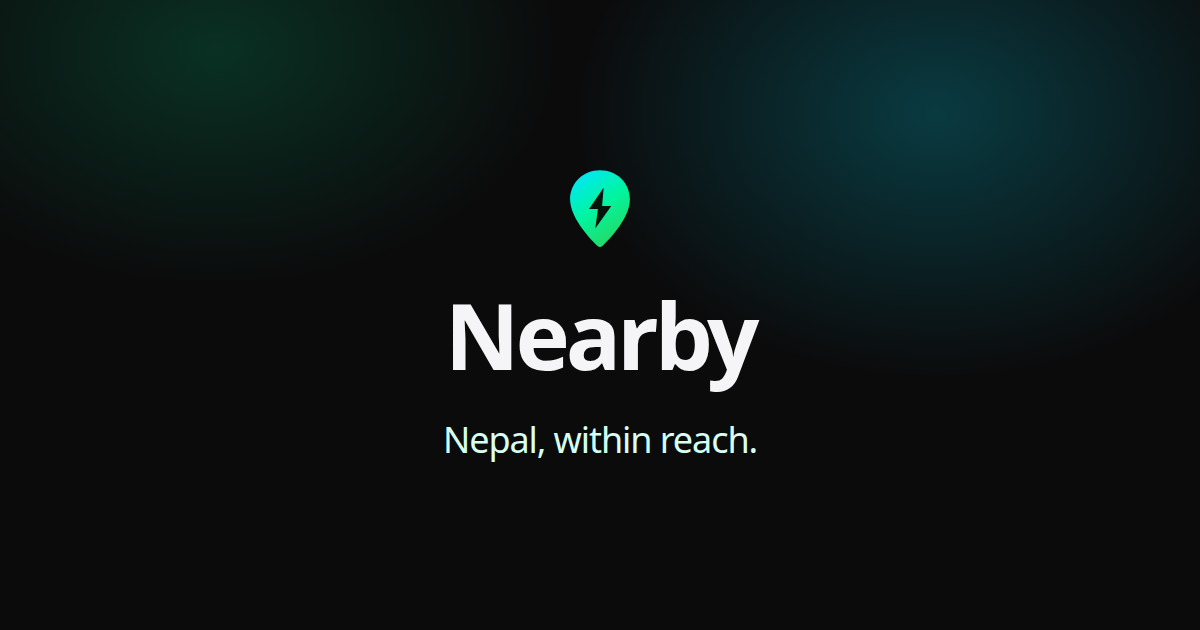
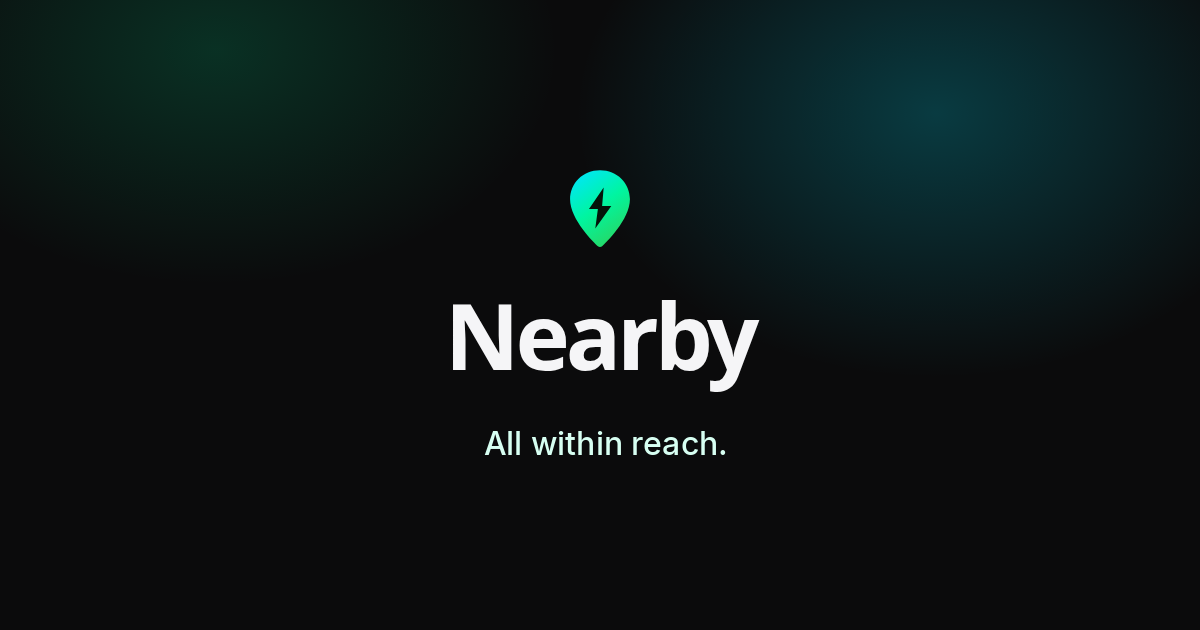
Drop the redundant Nepal from visible copy.
The header, titles, search, and charger scope now say All within reach. Nepal stays in About, visa and SIM notes, and search metadata.

Changed region(s): [[0.37, 0.6635, 0.6475, 0.7238]]

diff --git a/src/components/charge/ChargeExplorer.tsx b/src/components/charge/ChargeExplorer.tsx
@@ -498,7 +498,9 @@ export function ChargeExplorer() {
     origin.kind === "province"
       ? `${count} in ${origin.label}`
       : origin.kind === "country" || radiusKm == null
-        ? `${count} charger${count === 1 ? "" : "s"} in ${origin.kind === "country" ? "Nepal" : origin.label}`
+        ? origin.kind === "country"
+          ? `${count} charger${count === 1 ? "" : "s"}`
+          : `${count} charger${count === 1 ? "" : "s"} in ${origin.label}`
         : origin.kind === "geolocation"
           ? `${count} charger${count === 1 ? "" : "s"} within ${within}`
           : `${count} within ${within} of ${origin.label}`;
@@ -542,7 +544,7 @@ export function ChargeExplorer() {
           }}
         >
           <label className="sr-only" htmlFor="charger-search">
-            Search a place in Nepal
+            Search a place
           </label>
           <input
             id="charger-search"
@@ -587,7 +589,7 @@ export function ChargeExplorer() {
             aria-pressed={origin.kind === "country"}
             onClick={chooseNepal}
           >
-            Nepal {evIndex.length}
+            All {evIndex.length}
           </button>
           {provinceRecords.map((province) => {
             const on = origin.kind === "province" && origin.province === province.name;
@@ -650,7 +652,7 @@ export function ChargeExplorer() {
                 })
               : null}
             {suggestionHits.length === 0 ? (
-              <li className="suggest-label">No matching place in Nepal</li>
+              <li className="suggest-label">No matching place</li>
             ) : (
               suggestionHits.map((hit, index) => (
                 <li key={`${hit.kind}-${hit.label}-${hit.lat}`}>
@@ -676,7 +678,7 @@ export function ChargeExplorer() {
 
   return (
     <div className={cards ? "charge-cards-page" : "charge-stage"}>
-      <h1 className="sr-only">EV chargers in Nepal</h1>
+      <h1 className="sr-only">EV chargers</h1>
       {cards ? null : (
         <ChargeMap
           stations={mapStations}

diff --git a/src/app/page.tsx b/src/app/page.tsx
@@ -16,8 +16,8 @@ import { provinceRecords } from "@/lib/nepal/provinces";
 import { pageMeta } from "@/lib/site";
 
 export const metadata = pageMeta(
-  "Nearby: Nepal, within reach",
-  "Nearby: Nepal, within reach",
+  "Nearby · All within reach",
+  "Chargers, tech jobs, events and places to learn in Nepal.",
   "/",
 );
 
@@ -46,7 +46,7 @@ export default function HomePage() {
       <section className="home-hero">
         <DayGreeting />
         <h1 className="font-display hero-title">Everything near you, in one place.</h1>
-        <p className="lede">Chargers, tech jobs, events and places to learn, all near you.</p>
+        <p className="lede">Chargers, tech jobs, events and places to learn.</p>
         <HomeSearch />
         <div className="hero-actions">
           <Link href="/charge?near=1" className="btn-primary">
@@ -97,9 +97,9 @@ export default function HomePage() {
 
       <div className="home-split">
         <NearestChargers fallback={fallback} />
-        <section className="nepal-card" aria-label="Chargers across Nepal">
+        <section className="nepal-card" aria-label="Chargers">
           <div className="block-head">
-            <h2>{chargers} chargers across Nepal</h2>
+            <h2>{chargers} chargers</h2>
             <Link href="/charge?near=1">Near me</Link>
           </div>
           <NepalMapSlot provinces={provinceRecords} />
@@ -176,7 +176,7 @@ export default function HomePage() {
 
       <p className="home-mark">
         <LogoMark className="logo-mark" />
-        Curated for Nepal · 26 Sep 2026
+        Curated · 26 Sep 2026
       </p>
     </main>
   );

diff --git a/src/app/layout.tsx b/src/app/layout.tsx
@@ -2,7 +2,7 @@ import type { Metadata, Viewport } from "next";
 import { Inter } from "next/font/google";
 import Script from "next/script";
 import { AppShell } from "@/components/AppShell";
-import { SITE_DESCRIPTION, SITE_NAME, SITE_TAGLINE, SITE_URL } from "@/lib/site";
+import { SITE_DESCRIPTION, SITE_NAME, SITE_TITLE, SITE_URL } from "@/lib/site";
 import { flightFetchBoot } from "@/lib/flight-fetch";
 import { themeBoot } from "@/lib/tod";
 import "./globals.css";
@@ -26,7 +26,7 @@ export const viewport: Viewport = {
 export const metadata: Metadata = {
   metadataBase: new URL(SITE_URL),
   title: {
-    default: SITE_TAGLINE,
+    default: SITE_TITLE,
     template: `%s`,
   },
   description: SITE_DESCRIPTION,
@@ -48,16 +48,16 @@ export const metadata: Metadata = {
     other: [{ rel: "mask-icon", url: "/nearby/safari-pinned-tab.svg", color: "#00F5A0" }],
   },
   openGraph: {
-    title: SITE_TAGLINE,
+    title: SITE_TITLE,
     description: SITE_DESCRIPTION,
     url: `${SITE_URL}/`,
     siteName: SITE_NAME,
     type: "website",
-    images: [{ url: `${SITE_URL}/og.png`, width: 1200, height: 630, alt: SITE_TAGLINE }],
+    images: [{ url: `${SITE_URL}/og.png`, width: 1200, height: 630, alt: SITE_TITLE }],
   },
   twitter: {
     card: "summary_large_image",
-    title: SITE_TAGLINE,
+    title: SITE_TITLE,
     description: SITE_DESCRIPTION,
     images: [`${SITE_URL}/og.png`],
   },

diff --git a/src/components/nepal/SectionPage.tsx b/src/components/nepal/SectionPage.tsx
@@ -52,7 +52,7 @@ const COPY = {
   jobs: {
     kicker: "Jobs",
     title: "Tech work nearby",
-    intro: "Tech roles across Nepal.",
+    intro: "Tech roles around a city.",
   },
   learn: {
     kicker: "Learn",
@@ -108,7 +108,7 @@ export function SectionPage({ section }: { section: "jobs" | "learn" | "events" 
         const named = await reverseGeocode(pos.coords.latitude, pos.coords.longitude);
         const hit = (named && resolvePlace(named)) || null;
         if (!hit) {
-          setMessage("That location is outside the places Nearby knows. Search a Nepal city.");
+          setMessage("That location is outside the places Nearby knows. Search a city.");
           return;
         }
         go(hit);
@@ -136,11 +136,11 @@ export function SectionPage({ section }: { section: "jobs" | "learn" | "events" 
             event.preventDefault();
             const hit = suggestions[0];
             if (hit) go(hit);
-            else setMessage("No matching place in Nepal. Try Kathmandu, Pokhara, or Patan.");
+            else setMessage("No matching place. Try Kathmandu, Pokhara, or Patan.");
           }}
         >
           <label className="sr-only" htmlFor={`${section}-place`}>
-            Place in Nepal
+            Place
           </label>
           <input
             id={`${section}-place`}

diff --git a/src/lib/site.ts b/src/lib/site.ts
@@ -2,8 +2,11 @@ import type { Metadata } from "next";
 
 export const SITE_URL = "https://nirajbhusal.github.io/nearby";
 export const SITE_NAME = "Nearby";
-export const SITE_TAGLINE = "Nearby: Nepal, within reach";
-export const SITE_DESCRIPTION = "Nearby: Nepal, within reach";
+export const SITE_TAGLINE = "All within reach.";
+export const SITE_TITLE = "Nearby · All within reach";
+/** Search and share text. The visible tagline does not repeat the country. */
+export const SITE_DESCRIPTION =
+  "Nearby is a Nepal guide to EV chargers, tech jobs, events, and places to learn AI.";
 
 const OG_IMAGE = `${SITE_URL}/og.png`;
 
@@ -19,7 +22,7 @@ export function pageMeta(title: string, description: string, path = "/"): Metada
       url,
       siteName: SITE_NAME,
       type: "website",
-      images: [{ url: OG_IMAGE, width: 1200, height: 630, alt: "Nearby: Nepal, within reach" }],
+      images: [{ url: OG_IMAGE, width: 1200, height: 630, alt: SITE_TITLE }],
     },
     twitter: {
       card: "summary_large_image",

diff --git a/src/components/home/NepalMapSlot.tsx b/src/components/home/NepalMapSlot.tsx
@@ -6,7 +6,7 @@ import type { ProvinceRecord } from "@/lib/nepal/provinces";
 
 const NepalMap = dynamic(() => import("@/components/home/NepalMap"), {
   ssr: false,
-  loading: () => <div className="map-skeleton nepal-map-canvas" role="status" aria-label="Loading the Nepal map" />,
+  loading: () => <div className="map-skeleton nepal-map-canvas" role="status" aria-label="Loading the map" />,
 });
 
 export function NepalMapSlot({ provinces }: { provinces: ProvinceRecord[] }) {
@@ -32,7 +32,7 @@ export function NepalMapSlot({ provinces }: { provinces: ProvinceRecord[] }) {
 
   return (
     <div ref={ref} className="nepal-map">
-      {show ? <NepalMap provinces={provinces} /> : <div className="map-skeleton nepal-map-canvas" role="status" aria-label="Loading the Nepal map" />}
+      {show ? <NepalMap provinces={provinces} /> : <div className="map-skeleton nepal-map-canvas" role="status" aria-label="Loading the map" />}
     </div>
   );
 }

diff --git a/src/app/nomad/page.tsx b/src/app/nomad/page.tsx
@@ -2,7 +2,7 @@ import { NomadCityList } from "@/components/nepal/NomadCityList";
 import { pageMeta } from "@/lib/site";
 
 export const metadata = pageMeta(
-  "Digital nomad — Nearby",
+  "Digital nomad — Nearby · All within reach",
   "Kathmandu and Pokhara for people working from Nepal. Rank and cost figures are credited to Nomads.com.",
   "/nomad",
 );
@@ -12,7 +12,7 @@ export default function NomadIndexPage() {
     <main className="page-wrap">
       <header className="page-hero">
         <p className="eyebrow">Nomad</p>
-        <h1 className="font-display page-title">Work from Nepal</h1>
+        <h1 className="font-display page-title">Work from here</h1>
         <p className="lede">
           A city guide for people spending a month with a laptop. Every figure
           on these pages names its source and the date it was current. Sections

diff --git a/src/lib/nepal/jobs.ts b/src/lib/nepal/jobs.ts
@@ -42,7 +42,7 @@ function nearestOffice(origin: PlaceHit, company: NepalCompany): {
   const placeLabel =
     best.city && best.district && best.city !== best.district
       ? `${best.city}, ${best.district}`
-      : best.city || best.district || "Nepal";
+      : best.city || best.district || "City not listed";
   return {
     distanceKm: bestDistance,
     placeLabel,
@@ -215,7 +215,7 @@ export function jobMapPins(rows: NearbyCompany[], origin: PlaceHit): JobMapPin[]
       if (office.lat == null || office.lng == null) continue;
       if (!isNearRecord(origin, office)) continue;
       const kind = officeKind(office.geo_precision);
-      const city = office.city || "Nepal";
+      const city = office.city || "City not listed";
       const id =
         kind === "centroid"
           ? `city:${city.toLowerCase()}`

diff --git a/src/app/ev/[id]/page.tsx b/src/app/ev/[id]/page.tsx
@@ -29,12 +29,12 @@ export async function generateMetadata({
 }) {
   const { id } = await params;
   const station = getStation(id);
-  if (!station) return { title: "Charging station — Nearby" };
+  if (!station) return { title: "Charging station — Nearby · All within reach" };
   const place = [station.city, station.district].filter(Boolean).join(", ");
   const description = place
     ? `${station.name} in ${place}. Curated charging-station details for Nepal.`
     : `${station.name}. Curated charging-station details for Nepal.`;
-  return pageMeta(`${station.name} — EV charging — Nearby`, description, `/ev/${station.id}`);
+  return pageMeta(`${station.name} — EV charging — Nearby · All within reach`, description, `/ev/${station.id}`);
 }
 
 function formatKw(kw: number | null): string | null {

diff --git a/src/components/AppShell.tsx b/src/components/AppShell.tsx
@@ -8,6 +8,7 @@ import { InstallBridge } from "@/components/InstallPrompt";
 import { AvatarFace } from "@/components/ProfileAvatar";
 import { RegisterSW } from "@/components/RegisterSW";
 import { toHref } from "@/components/SiteLink";
+import { SITE_TAGLINE } from "@/lib/site";
 import { ThemeSync } from "@/components/ThemeToggle";
 import { profileInitial } from "@/lib/local-profile";
 import { useProfile } from "@/lib/profile-store";
@@ -48,7 +49,7 @@ function BrandLockup() {
   return (
     <a className="brand-lockup" href={toHref("/")}>
       <Wordmark />
-      <span className="brand-tag">Nepal, within reach.</span>
+      <span className="brand-tag">{SITE_TAGLINE}</span>
     </a>
   );
 }

diff --git a/src/components/home/HomeSearch.tsx b/src/components/home/HomeSearch.tsx
@@ -33,14 +33,14 @@ export function HomeSearch() {
       }}
     >
       <label className="sr-only" htmlFor="home-search">
-        Search chargers, jobs, events in Nepal
+        Search chargers, jobs, events
       </label>
       <div className="home-search-field glass-bar">
         <Search size={18} aria-hidden />
         <input
           id="home-search"
           value={draft}
-          placeholder="Search chargers, jobs, events in Nepal"
+          placeholder="Search chargers, jobs, events"
           autoComplete="off"
           onChange={(event) => {
             setDraft(event.target.value);

diff --git a/src/app/nomad/[city]/page.tsx b/src/app/nomad/[city]/page.tsx
@@ -14,9 +14,9 @@ type Params = Promise<{ city: string }>;
 export async function generateMetadata({ params }: { params: Params }) {
   const { city: slug } = await params;
   const city = getNomadCity(slug);
-  if (!city) return { title: "Nomad city — Nearby" };
+  if (!city) return { title: "Nomad city — Nearby · All within reach" };
   return pageMeta(
-    `${city.name} for nomads — Nearby`,
+    `${city.name} for nomads — Nearby · All within reach`,
     `Where to live and work in ${city.name}, Nepal, with sourced reference figures.`,
     `/nomad/${city.slug}`,
   );
